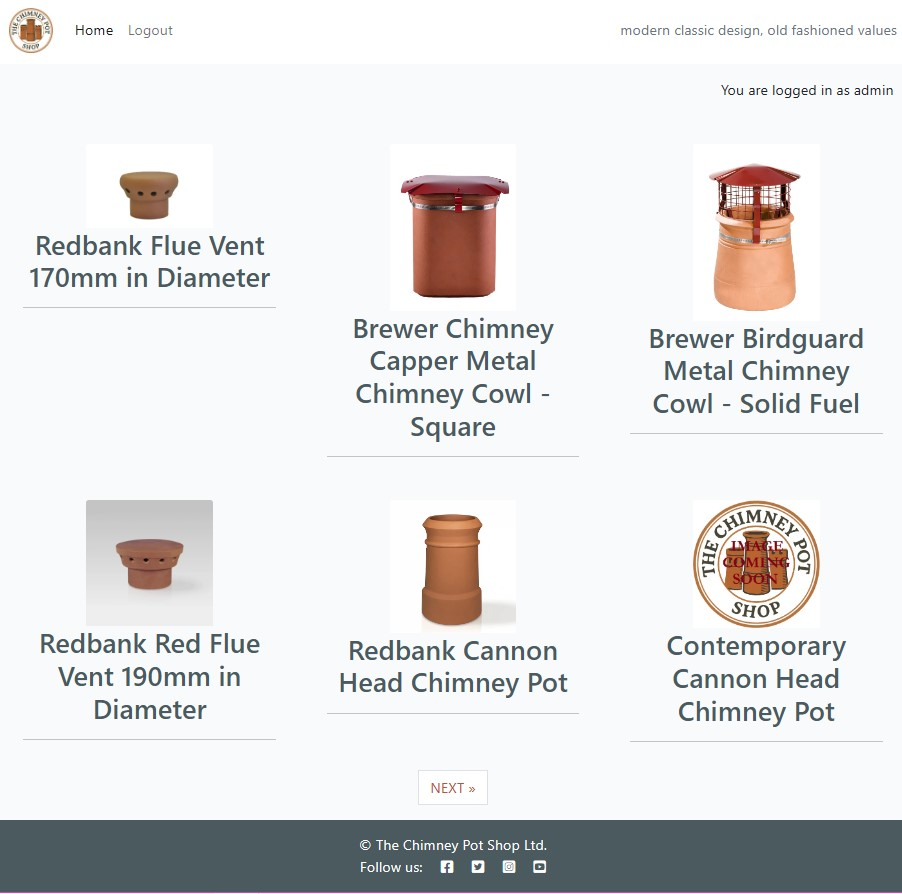
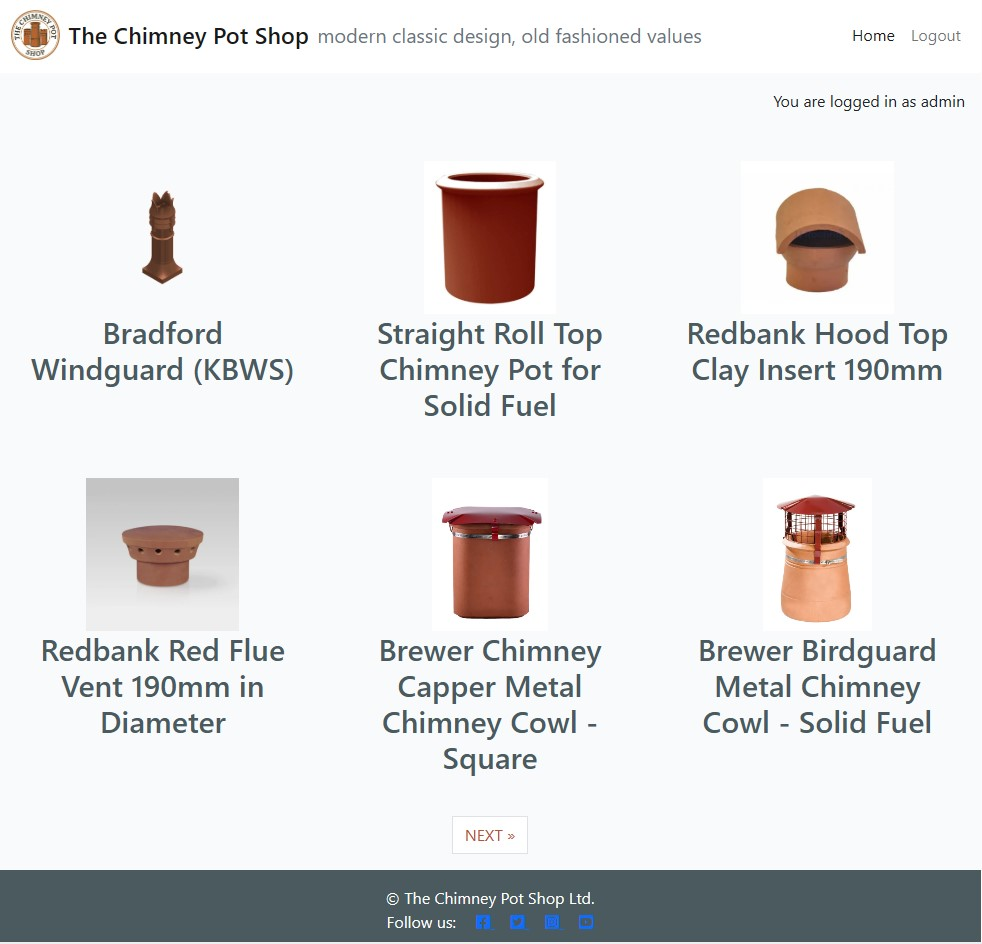
size of images and alignedment of text finally sorted

diff --git a/static/css/style.css b/static/css/style.css
@@ -40,6 +40,9 @@ body {
 .card {
     border: none;
     background-color: transparent;
+    display: flex;
+    flex-direction: column;
+    height: 100%;
 }
 
 .card-title {
@@ -66,6 +69,7 @@ body {
 .image-container {
     position: relative;
     width: 100%;
+    aspect-ratio: 16 / 9;
     overflow: hidden;
     display: flex;
     justify-content: center;
@@ -75,7 +79,7 @@ body {
 .card-img-top {
     height: 100%;
     width: 100%;
-    object-fit: cover;
+    object-fit: contain;
     object-position: center;
 }
 
